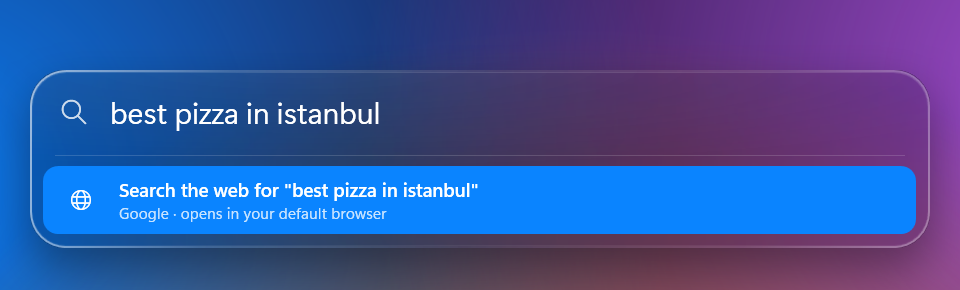
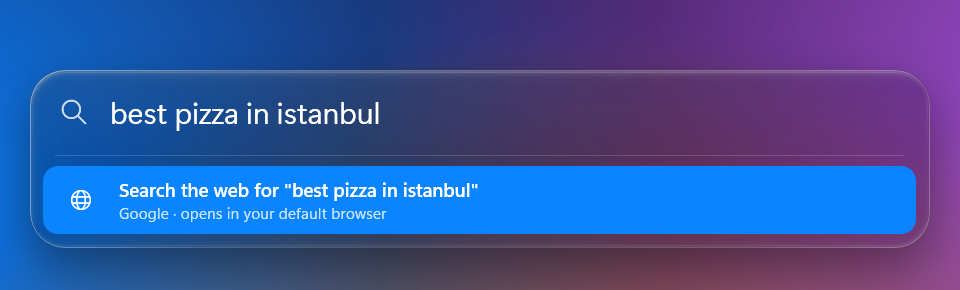
v1.3: reworked Liquid Glass, no live glass
- Curved lens bezel: clear centre, refraction rising steeply toward the rim, slight dispersion
- Specular highlight computed from the bezel normal, following the rounded corners
- One clean snapshot per opening with confirmed capture exclusion; the glass can never
  capture itself, so it no longer stacks up
- Live glass removed (and its setting); README, banner and screenshots updated

Changed region(s): [[0.0312, 0.2172, 0.875, 0.3103], [0.0625, 0.8379, 0.1875, 0.869], [0.8438, 0.8379, 0.9375, 0.869]]

diff --git a/SearchWindow.xaml b/SearchWindow.xaml
@@ -25,11 +25,11 @@
 
         <!-- Liquid Glass light rim: strong light from the top left, a counter-reflection at the bottom right. -->
         <LinearGradientBrush x:Key="Rim" StartPoint="0,0" EndPoint="1,1">
-            <GradientStop Color="#99FFFFFF" Offset="0" />
-            <GradientStop Color="#26FFFFFF" Offset="0.22" />
+            <GradientStop Color="#66FFFFFF" Offset="0" />
+            <GradientStop Color="#1AFFFFFF" Offset="0.22" />
             <GradientStop Color="#08FFFFFF" Offset="0.5" />
             <GradientStop Color="#1AFFFFFF" Offset="0.8" />
-            <GradientStop Color="#59FFFFFF" Offset="1" />
+            <GradientStop Color="#40FFFFFF" Offset="1" />
         </LinearGradientBrush>
         <!-- Inner rim: a thin second light line that conveys the thickness of the glass. -->
         <LinearGradientBrush x:Key="InnerRim" StartPoint="0,0" EndPoint="0,1">
@@ -125,7 +125,7 @@
         </Border>
         <!-- Light rims -->
         <Border CornerRadius="27" Margin="1.5" BorderThickness="1" BorderBrush="{StaticResource InnerRim}" IsHitTestVisible="False" />
-        <Border CornerRadius="28" BorderThickness="1.3" BorderBrush="{StaticResource Rim}" IsHitTestVisible="False" />
+        <Border CornerRadius="28" BorderThickness="1" BorderBrush="{StaticResource Rim}" IsHitTestVisible="False" />
 
         <!-- Content is measured at unconstrained height; the panel springs toward it, and overflow is clipped to the rounded corners. -->
         <Canvas x:Name="ContentHost" ClipToBounds="True" SizeChanged="OnContentHostSizeChanged">

diff --git a/SearchWindow.xaml.cs b/SearchWindow.xaml.cs
@@ -46,14 +46,12 @@ public partial class SearchWindow : Window
         _height = new Spring(68, h => Panel.Height = Math.Max(68, h));
         // Like macOS: clicking anywhere else closes it.
         Deactivated += (_, _) => HideSpotlight();
-        // Theme, language and live-glass changes from the Settings window apply live.
+        // Theme and language changes from the Settings window apply live.
         AppSettings.Changed += () => Dispatcher.Invoke(() =>
         {
             ApplyAppearance();
             if (!IsVisible || _closing) return;
             OnQueryChanged(this, null!);
-            if (AppSettings.Current.LiveGlass) StartLiveGlass();
-            else StopLiveGlass();
         });
         ApplyAppearance();
     }
@@ -176,7 +174,6 @@ public partial class SearchWindow : Window
             _open.To(1, ReduceMotion ? 0.2 : 0.32, 1.0);
             Activate();
             Query.Focus();
-            StartLiveGlass();
             return;
         }
         ApplyAppearance();
@@ -193,7 +190,6 @@ public partial class SearchWindow : Window
             (int)Math.Round((Left + GlassLeft) * scale), (int)Math.Round((Top + GlassTop) * scale),
             (int)Math.Round(GlassWidth * scale), (int)Math.Round(GlassMaxHeight * scale));
         _captureScale = scale;
-        if (AppSettings.Current.LiveGlass) _excludedForLive = SetExcluded(true);
         _backdrop = CaptureBehind();
         _height.Snap(ResultsContent.ActualHeight > 0 ? ResultsContent.ActualHeight : 68);
         UpdateGlass();
@@ -206,7 +202,6 @@ public partial class SearchWindow : Window
         Query.SelectAll();
         // Accepts typing from the first frame; the animation never makes you wait.
         _open.To(1, ReduceMotion ? 0.2 : 0.32, 1.0);
-        StartLiveGlass();
         _ = AppIndex.RefreshAsync();
     }
 
@@ -214,7 +209,6 @@ public partial class SearchWindow : Window
     {
         if (!IsVisible || _closing) return;
         _fileSearch?.Cancel();
-        _liveGlass?.Cancel();
         _closing = true;
         // Leaves along the path it came in on (same scale axis), a little faster.
         _open.To(0, ReduceMotion ? 0.15 : 0.22, 1.0, settled: () =>
@@ -222,7 +216,6 @@ public partial class SearchWindow : Window
             if (!_closing) return;
             _closing = false;
             Hide();
-            StopLiveGlass();
             // Start clean next time; running downloads continue in the background.
             if (!_items.Any(i => i.IsBusy)) Query.Text = "";
         });
@@ -274,7 +267,6 @@ public partial class SearchWindow : Window
 
     private System.Drawing.Rectangle _captureRect;
     private double _captureScale = 1;
-    private CancellationTokenSource? _liveGlass;
     private volatile float _glassHeight = 68;
 
     private void OnGlassSizeChanged(object sender, SizeChangedEventArgs e)
@@ -312,16 +304,15 @@ public partial class SearchWindow : Window
     }
 
     /// <summary>
-    /// Captures only what is behind the glass, never the glass itself. With live glass the window is already
-    /// excluded from capture for as long as it is open; otherwise it is excluded just for this one capture.
-    /// If Windows does not confirm the exclusion, nothing is captured: a frame of the glass itself must never
-    /// end up inside the glass (that is what made it stack up and darken/brighten).
+    /// Captures only what is behind the glass, never the glass itself: the window is excluded from screen
+    /// capture just for this one snapshot, taken as it opens. If Windows does not confirm the exclusion,
+    /// nothing is captured, so a frame of the glass can never end up inside the glass (that is what made it
+    /// stack up and darken or brighten).
     /// </summary>
     private Backdrop? CaptureBehind()
     {
         var rect = _captureRect;
-        bool temporary = !_excludedForLive;
-        if (temporary && !SetExcluded(true)) return null;
+        if (!SetExcluded(true)) return null;
         try
         {
             Native.DwmFlush();
@@ -330,56 +321,6 @@ public partial class SearchWindow : Window
         }
         finally
         {
-            if (temporary) SetExcluded(false);
-        }
-    }
-
-    private bool _excludedForLive;
-
-    /// <summary>
-    /// Live glass: while Spotlight is open it stays excluded from screen capture (so screenshots and screen
-    /// sharing do not show it), which lets the glass refresh three times a second with no chance of capturing
-    /// itself. The refracted image is built off the UI thread so typing never stutters.
-    /// </summary>
-    private void StartLiveGlass()
-    {
-        _liveGlass?.Cancel();
-        // Off in Settings: the glass keeps the snapshot taken when it opened, and Spotlight shows up in screenshots.
-        if (!AppSettings.Current.LiveGlass || !IsVisible)
-        {
-            StopLiveGlass();
-            return;
-        }
-        _excludedForLive = SetExcluded(true);
-        if (!_excludedForLive) return; // Windows refused: stay with the safe static glass.
-        var cts = _liveGlass = new CancellationTokenSource();
-        var rect = _captureRect;
-        var scale = _captureScale;
-        Task.Run(async () =>
-        {
-            while (!cts.IsCancellationRequested)
-            {
-                try { await Task.Delay(330, cts.Token); } catch (OperationCanceledException) { return; }
-                if (_closing) continue;
-                var fresh = Backdrop.Capture(rect.X, rect.Y, rect.Width, rect.Height, scale);
-                if (fresh == null || cts.IsCancellationRequested) continue;
-                var image = fresh.Render(GlassWidth, _glassHeight, GlassRadius);
-                await Dispatcher.InvokeAsync(() =>
-                {
-                    if (cts.IsCancellationRequested) return;
-                    _backdrop = fresh;
-                    SetGlass(image);
-                });
-            }
-        });
-    }
-
-    private void StopLiveGlass()
-    {
-        _liveGlass?.Cancel();
-        if (_excludedForLive)
-        {
-            _excludedForLive = false;
             SetExcluded(false);
         }
     }

diff --git a/Backdrop.cs b/Backdrop.cs
@@ -65,8 +65,10 @@ internal sealed class Backdrop
         int w = Math.Clamp((int)Math.Round(widthDip * k), 1, _w);
         int h = Math.Clamp((int)Math.Round(heightDip * k), 1, _h);
         double r = radiusDip * k;
-        double band = 30 * k;       // width of the refracting rim
-        double shift = 20 * k;      // strongest bend, at the very edge
+        double band = 26 * k;       // width of the curved bezel
+        double shift = 22 * k;      // strongest bend, at the very edge
+        // Light comes from the top left, like Apple's Liquid Glass.
+        const double lx = -0.5, ly = -0.866;
         double cx = w / 2.0, cy = h / 2.0, hx = w / 2.0 - r, hy = h / 2.0 - r;
 
         var output = new int[w * h];
@@ -104,13 +106,23 @@ internal sealed class Backdrop
                     continue;
                 }
 
-                // Lens rim: background is pulled inward, red bends a little more than blue (dispersion).
+                // Curved bezel, like a convex lens: the surface slope (and so the bend) stays near zero inside
+                // and rises steeply toward the rim. Red bends a little more than blue (dispersion).
                 double t = 1 - Math.Max(0, inside) / band;
-                double amount = shift * t * t * t;
-                double lift = 1 + 0.05 * t * t; // the thicker edge catches a little more light
-                int cr = Channel(px - nx * amount * 1.12, py - ny * amount * 1.12, 16, lift);
-                int cg = Channel(px - nx * amount, py - ny * amount, 8, lift);
-                int cb = Channel(px - nx * amount * 0.88, py - ny * amount * 0.88, 0, lift);
+                double slope = t / Math.Sqrt(1 - 0.96 * t * t);
+                double amount = shift * Math.Min(slope, 3.5) / 3.5;
+                int cr = Channel(px - nx * amount * 1.1, py - ny * amount * 1.1, 16, 1);
+                int cg = Channel(px - nx * amount, py - ny * amount, 8, 1);
+                int cb = Channel(px - nx * amount * 0.9, py - ny * amount * 0.9, 0, 1);
+
+                // Specular rim: a thin bright line where the bezel faces the light (top left), a softer
+                // reflection on the opposite side (bottom right). It follows the rounded corners exactly.
+                double facing = nx * lx + ny * ly;
+                double thin = Math.Pow(t, 10), soft = t * t * t;
+                double spec = thin * (0.42 * Math.Max(facing, 0) + 0.2 * Math.Max(-facing, 0)) + soft * 0.05 * Math.Max(facing, 0);
+                cr += (int)((255 - cr) * spec);
+                cg += (int)((255 - cg) * spec);
+                cb += (int)((255 - cb) * spec);
                 output[py * w + px] = unchecked((int)0xFF000000) | (cr << 16) | (cg << 8) | cb;
             }
         }

diff --git a/SettingsWindow.cs b/SettingsWindow.cs
@@ -107,11 +107,9 @@ public sealed class SettingsWindow : Window
             Row("", Color.FromRgb(0xAF, 0x52, 0xDE), L.T("Appearance", "Görünüm"), Segmented(
                 new[] { L.T("System", "Sistem"), L.T("Light", "Açık"), L.T("Dark", "Koyu") },
                 (int)s.Theme,
-                i => { s.Theme = (ThemeMode)i; s.Save(); })),
-            Row("", Color.FromRgb(0x32, 0xAD, 0xE6), L.T("Live glass", "Canlı cam"),
-                Switch(s.LiveGlass, on => { s.LiveGlass = on; s.Save(); }))));
-        _content.Children.Add(Footnote(L.T("Live glass keeps what is behind Spotlight up to date. While it is on, Spotlight is hidden from screenshots and screen sharing; turn it off to capture it.",
-                                           "Canlı cam, Spotlight'ın arkasındakini güncel tutar. Açıkken Spotlight ekran görüntülerinde ve ekran paylaşımında görünmez; görüntü almak için kapat.")));
+                i => { s.Theme = (ThemeMode)i; s.Save(); }))));
+        _content.Children.Add(Footnote(L.T("System follows the Windows light or dark app mode.",
+                                           "Sistem, Windows'un açık/koyu uygulama moduna uyar.")));
 
         // Language and search
         _content.Children.Add(Group(

diff --git a/Settings.cs b/Settings.cs
@@ -19,8 +19,6 @@ public sealed class AppSettings
     /// <summary>"en" (default) or "tr".</summary>
     public string Language { get; set; } = "en";
     public SearchEngine WebSearch { get; set; } = SearchEngine.Google;
-    /// <summary>Refresh what is behind the glass while Spotlight is open (once a second).</summary>
-    public bool LiveGlass { get; set; } = true;
     /// <summary>Global shortcut: modifier flags (Alt = 1, Ctrl = 2, Shift = 4, Win = 8) and virtual-key code.</summary>
     public uint HotkeyModifiers { get; set; } = 0x1;
     public uint HotkeyKey { get; set; } = 0x20;

diff --git a/Installer.cs b/Installer.cs
@@ -21,7 +21,7 @@ namespace Odak;
 public static class Installer
 {
     public const string AppName = "Spotlight";
-    public const string Version = "1.2.0";
+    public const string Version = "1.3.0";
     private const string RunKey = @"Software\Microsoft\Windows\CurrentVersion\Run";
     private const string UninstallKey = @"Software\Microsoft\Windows\CurrentVersion\Uninstall\Spotlight";
 

diff --git a/README.md b/README.md
@@ -4,7 +4,7 @@
 
 <p align="center">
   <a href="https://github.com/mondieuu/spotlight-for-windows/releases/latest"><b>⬇ Download SpotlightSetup.exe</b></a>
-  &nbsp;·&nbsp; Windows 10 / 11 &nbsp;·&nbsp; v1.2 &nbsp;·&nbsp; English · <a href="#türkçe">Türkçe</a>
+  &nbsp;·&nbsp; Windows 10 / 11 &nbsp;·&nbsp; v1.3 &nbsp;·&nbsp; English · <a href="#türkçe">Türkçe</a>
 </p>
 
 ---
@@ -27,7 +27,7 @@ The Liquid Glass design, spring animations, light and dark themes, and English/T
 | 📂 **Paste a path** | Paste `C:\Windows\notepad.exe` or a folder path to open it in File Explorer. |
 | 🎵 **MP3 / MP4 converter** | Paste a YouTube or Instagram link and save it as an MP4 video or an MP3 audio file with one key. |
 | 🌗 **Light & dark themes** | Pick Light, Dark or follow Windows in **Settings**. Changes apply instantly. |
-| 🪟 **Clear Liquid Glass** | Crystal-clear glass that shows what is really behind it, kept live while open, with lens refraction and light dispersion at the edges. |
+| 🪟 **Liquid Glass** | Crystal-clear glass that shows what is behind it. Its curved bezel bends light like a lens, and a thin specular highlight follows the rounded corners. |
 | 🫧 **Fluid motion** | Apple-style spring animations: interruptible, no bounce, and calmer when Windows "Animation effects" is off. |
 | 🧹 **Clean uninstall** | Uninstalling removes the program, index, settings, shortcuts and registry entries. Nothing is left behind. |
 
@@ -96,7 +96,6 @@ Open the Settings window from the tray menu (**Settings…**) or by typing `sett
 |---|---|
 | **Theme** | System (follows Windows) · Light · Dark |
 | **Display language** | English · Türkçe. Search understands both languages either way. |
-| **Live glass** | On / Off. Keeps what is behind the glass up to date. While it is on, Spotlight is hidden from screenshots and screen sharing. |
 | **Web search** | Google · Bing · DuckDuckGo |
 | **Keyboard shortcut** | Click it and press any combination, e.g. Ctrl + Shift + Space |
 | **Start with Windows** | On / Off |
@@ -113,7 +112,7 @@ The first time you use it, the conversion tools ([yt-dlp](https://github.com/yt-
 ### Tray menu
 **Right-click** the Spotlight icon on the right side of the taskbar:
 - **Open:** opens Spotlight (double-clicking the icon does the same).
-- **Settings…:** theme, language, web search engine, start with Windows.
+- **Settings…:** theme, language, web search engine, keyboard shortcut, start with Windows.
 - **Downloads folder:** shows your downloaded MP3/MP4 files.
 - **Start with Windows:** starts Spotlight in the background when you sign in.
 - **Uninstall Spotlight…:** opens the uninstaller.
@@ -200,7 +199,6 @@ This is an independent project, **not affiliated with or endorsed by Apple Inc.*
 - **Disk yolu yapıştır,** Dosya Gezgini'nde açılsın. **YouTube veya Instagram bağlantısı yapıştır,** MP4 ya da MP3 olarak indir.
 - **Ayarlar:** tepsi menüsünden **Ayarlar…** ile ya da Spotlight'a `ayarlar`/`tema` yazarak açılır.
   - Tema: Sistem / Açık / Koyu
-  - Canlı cam: camın arkasındakini güncel tutar (ekran paylaşırken kapatılabilir)
   - Arayüz dili: English / Türkçe
   - Web arama motoru
   - Windows ile başlatma
